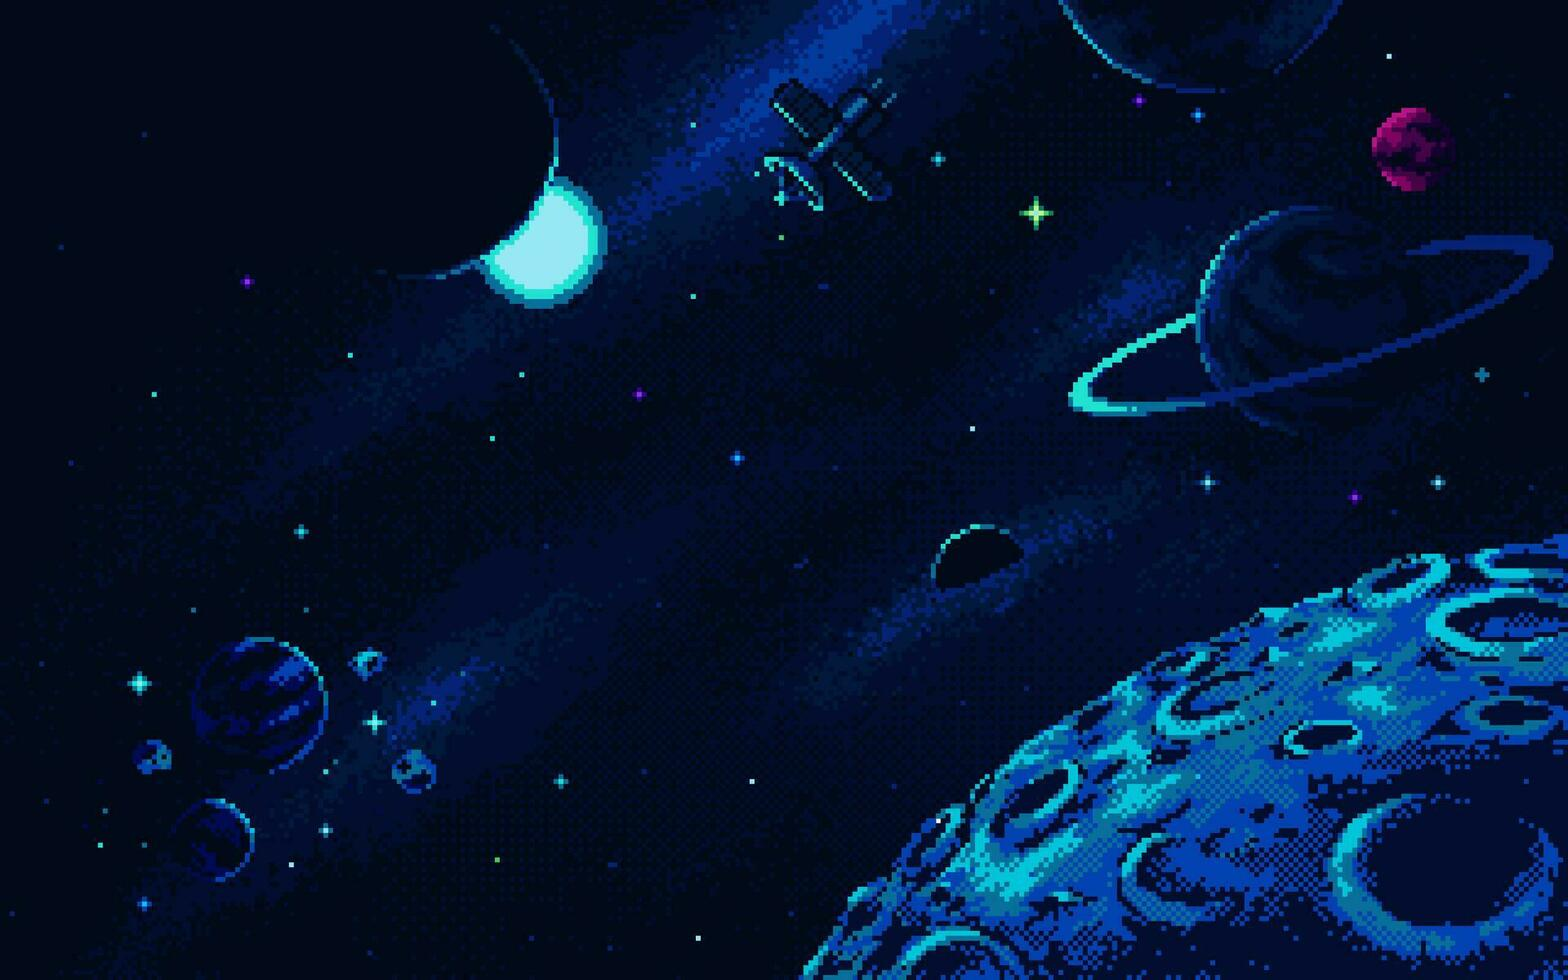
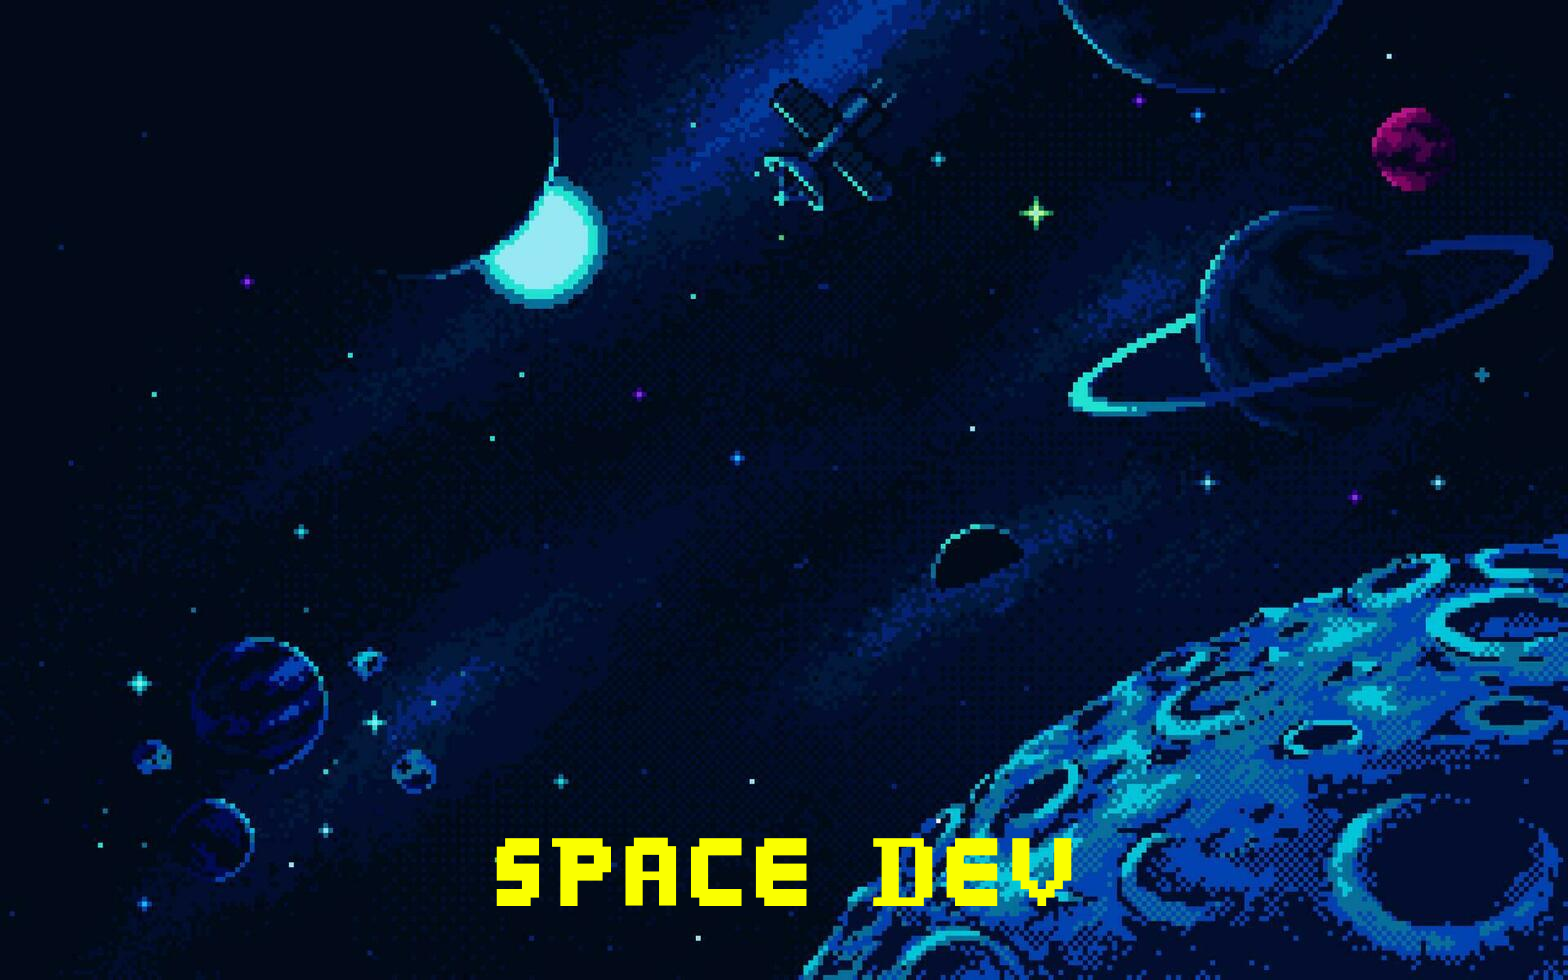
Add menu title

Changed region(s): [[0.3125, 0.8571, 0.5312, 0.949], [0.5625, 0.8571, 0.6875, 0.949]]

diff --git a/src/application/Main.java b/src/application/Main.java
@@ -186,9 +186,6 @@ public class Main extends Application {
         Button itemsInfoButton = createMenuButton("Item & Enhancement Info");
         itemsInfoButton.setOnAction(e -> showItemsInfo());
 
-        Button highScoresButton = createMenuButton("High Scores");
-        highScoresButton.setOnAction(e -> showHighScores());
-
         Button exitButton = createMenuButton("Exit");
         exitButton.setOnAction(e -> primaryStage.close());
 
@@ -213,7 +210,7 @@ public class Main extends Application {
         // Add buttons to menu layout
         menuLayout.getChildren().addAll(
                 startButton, howToPlayButton, enemiesInfoButton,
-                itemsInfoButton, highScoresButton, exitButton,
+                itemsInfoButton, exitButton,
                 volumeContainer
         );
         // Add menu layout to root
